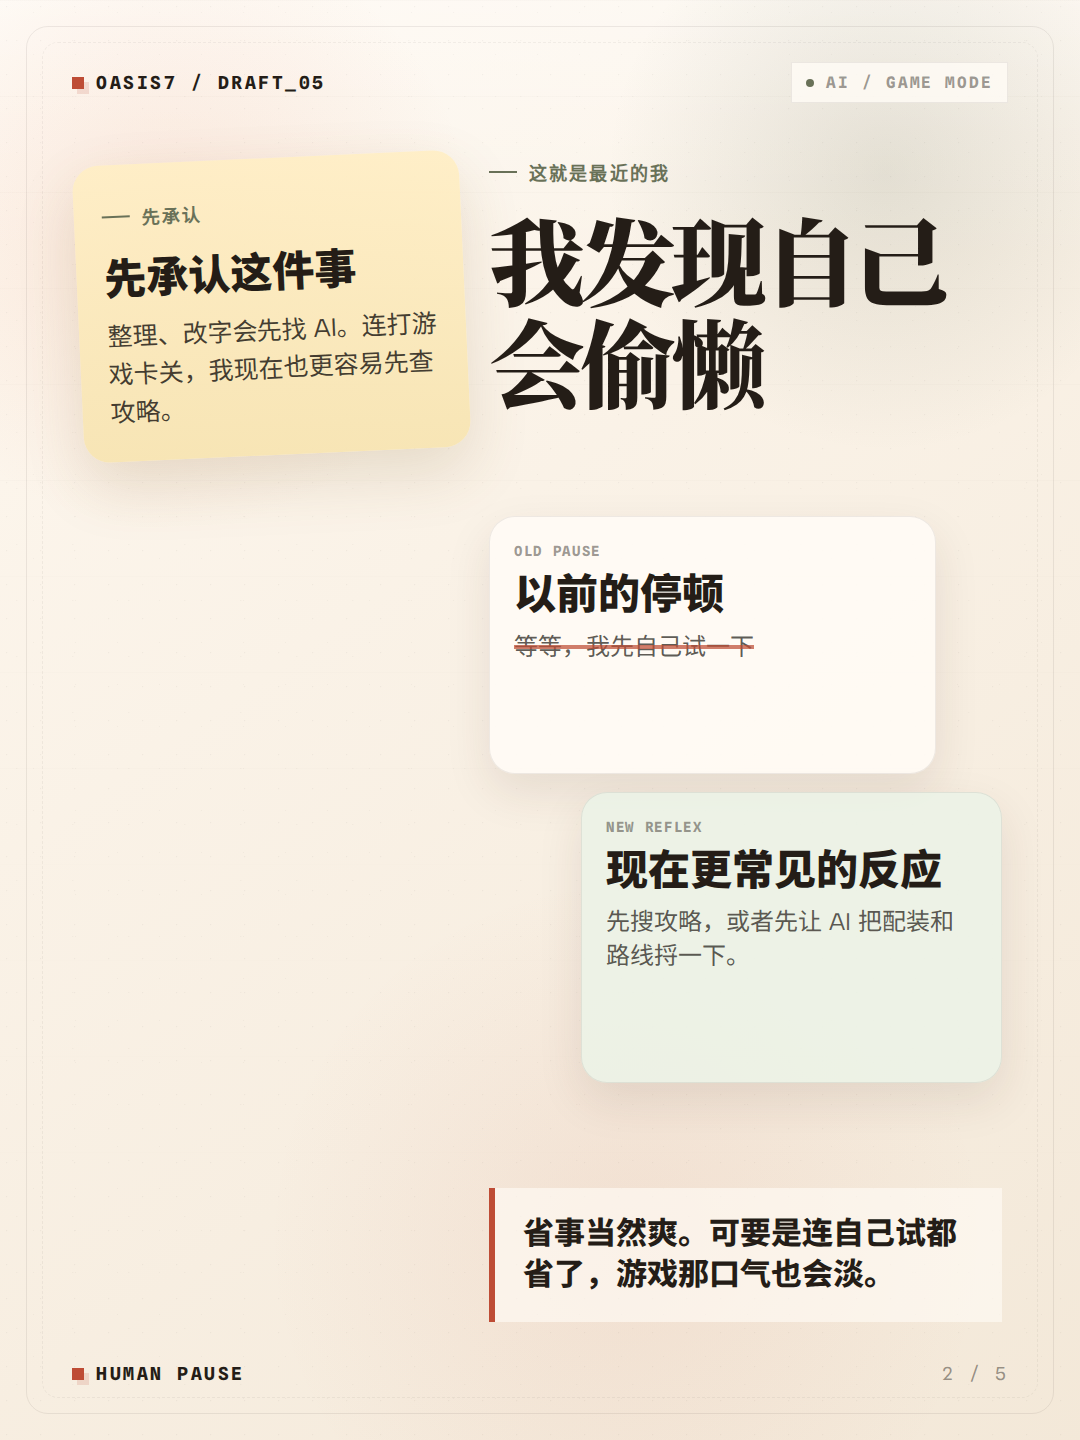
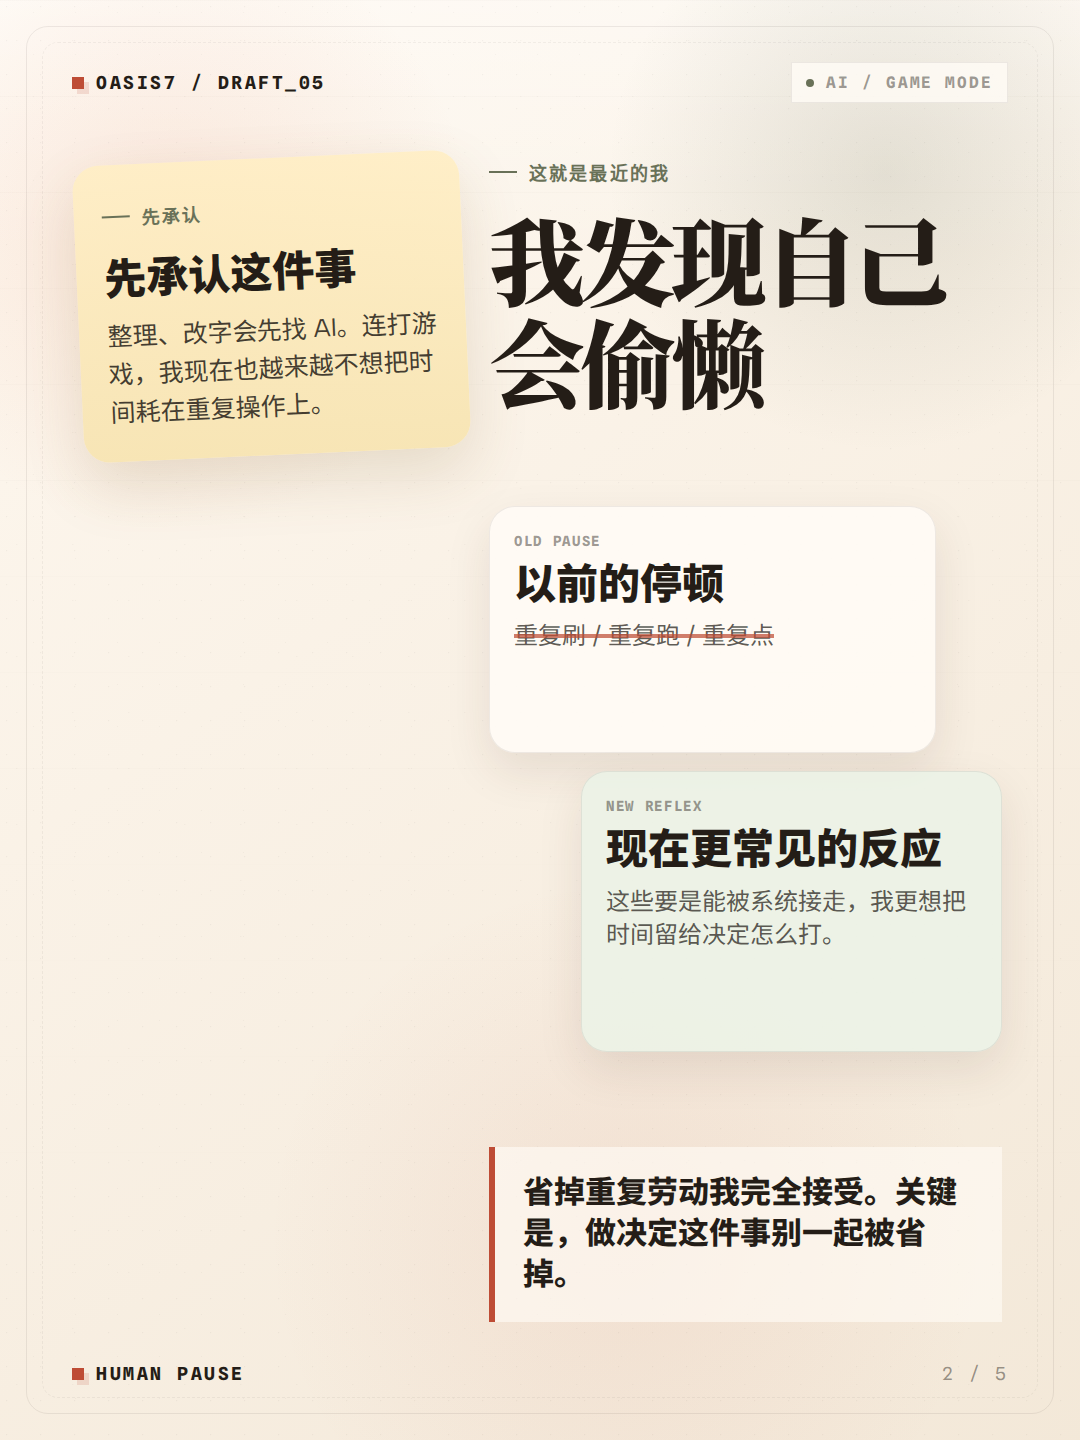
refine xiaohongshu fifth post decision framing

diff --git a/site/social/xiaohongshu-ai-laziness-game-mode.html b/site/social/xiaohongshu-ai-laziness-game-mode.html
@@ -625,6 +625,7 @@
 
       .ladder-main {
         display: grid;
+        align-content: start;
         gap: 18px;
       }
 
@@ -661,6 +662,7 @@
 
       .question-side {
         display: grid;
+        align-content: start;
         gap: 18px;
       }
 
@@ -784,23 +786,23 @@
         {
           kind: "cover",
           title: 'AI时代，<br />你变<span class="accent">"懒"</span>了么',
-          subtitle: "我这阵子有个变化挺明显。不只写东西卡住会先问 AI，打游戏卡关也开始想先看答案。",
+          subtitle: "我这阵子有个变化挺明显。不只写东西想省事，打游戏的时候我也越来越想把时间留给做决定。",
           noteTitle: "这事我自己也有",
-          noteBody: "以前会先乱试几把。现在有时候第一反应已经是：要不要先看一眼攻略？",
+          noteBody: "我想省掉的不是决策。是那些重复、机械、明知道还得做很多遍的事。",
           compareLeft: "以前卡关会先自己试一会儿",
-          compareRight: "现在更容易先查攻略 / 问 AI",
-          prompt: "如果攻略和答案越来越容易拿到手，游戏还该留什么给人？",
+          compareRight: "现在更想把时间留给做决定",
+          prompt: "如果重复劳动都能被省掉，游戏还该留什么给人？",
         },
         {
           kind: "chat",
           title: "我发现自己会偷懒",
           stickyTitle: "先承认这件事",
-          stickyBody: "整理、改字会先找 AI。连打游戏卡关，我现在也更容易先查攻略。",
+          stickyBody: "整理、改字会先找 AI。连打游戏，我现在也越来越不想把时间耗在重复操作上。",
           userTitle: "以前的停顿",
-          userBody: '<span class="strike">等等，我先自己试一下</span>',
+          userBody: '<span class="strike">重复刷 / 重复跑 / 重复点</span>',
           aiTitle: "现在更常见的反应",
-          aiBody: "先搜攻略，或者先让 AI 把配装和路线捋一下。",
-          tail: "省事当然爽。可要是连自己试都省了，游戏那口气也会淡。",
+          aiBody: "这些要是能被系统接走，我更想把时间留给决定怎么打。",
+          tail: "省掉重复劳动我完全接受。关键是，做决定这件事别一起被省掉。",
         },
         {
           kind: "allowed",
@@ -821,48 +823,48 @@
             },
           ],
           summary: "这些懒没问题",
-          summaryBody: "因为被省掉的主要还是体力活，不是那个“我自己来试”的劲。",
+          summaryBody: "因为被省掉的主要还是体力活，这样时间才留得下来给判断和取舍。",
           list: ["整理", "改字", "刷材料"],
         },
         {
           kind: "question",
-          title: "但如果连自己试都被省掉了",
-          body: "连“先自己试试”“先自己判断一下”这两步都被跳过去了，那游戏还剩什么是一定要你自己来的？",
+          title: "重复劳动可以少一点",
+          body: "如果系统能把刷、跑、点这些重复事接过去，那玩家最该保留下来的，是不是就该是决策？",
           ladder: [
             {
-              label: "先被接走的",
-              title: "动作",
-              body: "点一下、改一下、补一下，效率确实上来了。",
+              label: "可以被省掉的",
+              title: "重复劳动",
+              body: "刷、跑、点、做很多次一样的事，这些真的很耗时间。",
             },
             {
-              label: "我开始警惕的",
-              title: "自己试 + 自己判断",
-              body: "什么时候该停、怎么试、怎么选，这部分一丢，游戏就容易只剩答案。",
+              label: "最好留下来的",
+              title: "关键决策",
+              body: "先做什么、资源给谁、这步赌不赌，这些我还是想自己定。",
             },
           ],
           sideTitle: "我在意的是",
-          sideBody: "有些地方还是得留给玩家自己试、自己选、自己吃后果。不然太像照着答案抄。",
-          tokens: ["自己试", "自己判断", "自己吃后果"],
+          sideBody: "我想要的不是全自动通关。是少做重复事，把时间留给判断。",
+          tokens: ["先做什么", "资源给谁", "赌不赌"],
         },
         {
           kind: "closing",
-          title: "你最不想省掉的<br />到底是哪一步？",
-          body: "如果攻略、配装、答案都越来越容易拿到手，你最不想省掉哪一步？",
+          title: "如果游戏能替你省事<br />你最想自己留下什么决定？",
+          body: "如果重复劳动都能被接走，你最想自己保留哪一类决策？",
           options: [
             {
-              title: "自己试",
-              body: "先自己试、自己绕、自己踩坑，这口气不能一下全没了。",
+              title: "先做什么",
+              body: "第一步先投哪里、先做哪边，这个我想自己定。",
             },
             {
-              title: "自己判断",
-              body: "这会儿该怎么选，最好还是你自己定。",
+              title: "资源给谁",
+              body: "资源先砸哪、先保守还是先冒险，我来选。",
             },
             {
-              title: "自己吃后果",
-              body: "选错了也得自己吃到，这样才像自己打的。",
+              title: "赌不赌",
+              body: "这步要不要冒险、要不要梭进去，我想自己拍板。",
             },
           ],
-          footer: "我现在最舍不得省掉的，是后两步。你呢？",
+          footer: "我想省掉的是重复劳动，不是决策本身。你呢？",
         },
       ];
 
@@ -1032,9 +1034,13 @@
                     <p style="margin-top: 18px;">${slide.sideBody}</p>
                   </div>
                   <div class="token-cloud">
-                    <span class="token">自己试</span>
-                    <span class="token hot">自己判断</span>
-                    <span class="token soft">自己吃后果</span>
+                    ${slide.tokens
+                      .map(
+                        (token, tokenIndex) => `
+                    <span class="token${tokenIndex === 1 ? " hot" : tokenIndex === 2 ? " soft" : ""}">${token}</span>
+                  `,
+                      )
+                      .join("")}
                   </div>
                 </div>
               </div>

diff --git a/doc/readme/governance/readme-xiaohongshu-ai-laziness-game-mode-post-pack-2026-03-26.md b/doc/readme/governance/readme-xiaohongshu-ai-laziness-game-mode-post-pack-2026-03-26.md
@@ -11,11 +11,11 @@
 - Review Status: `ready_for_publish`
 
 ## 使用说明
-- 这是第五篇，主要回答“AI 时代，人会不会不只在工作里省事，连玩游戏也越来越想跳过判断和试错”。
+- 这是第五篇，主要回答“AI 时代，人会不会不只在工作里省事，连玩游戏也越来越想把重复劳动省掉，把时间留给做决策”。
 - 这篇的目标不是做泛 AI 焦虑帖，也不是做工具测评，而是借一个很多人都能代入的真实感受，把讨论引到：
   - 哪些“懒”其实没问题。
-  - 哪些“懒”会让人在游戏里越来越少自己试、自己想、自己承担。
-  - 如果越来越多动作都能被 AI 接手，游戏模式还应该把什么留给人。
+  - 游戏里哪些重复劳动本来就不该一直占人的时间。
+  - 如果越来越多动作都能被系统接手，玩家最该保留的到底是不是决策。
 - 语气仍然要像真人开发者在说自己的真实变化，不像趋势报告，也不像大道理输出。
 - 不要出现以下表述：
   - `AI 会让人彻底失去思考能力`
@@ -42,63 +42,59 @@ AI时代，你变"懒"了么
 我现在都会先想：
 要不要先看一眼攻略？
 
-以前卡关了，
-我会先自己乱试几把，
-死几次再说。
+但我后来发现，
+我想省掉的，
+好像也不只是工作里的重复活。
 
-现在有时候，
-第一反应已经变成：
-先搜一下攻略，
-或者先问一句 AI，
-先把配装、路线、答案看一眼。
+连打游戏也是。
+我越来越不想把时间
+耗在那些机械、重复、
+明知道还得再做很多遍的事情上。
 
-省事当然省事。
-
-而且有些省事我觉得没问题。
 整理资料、改字、刷材料，
 或者游戏里那些纯刷材料的劳动，
 本来就挺耗人。
 
-但我越来越在意的是，
-如果连
-“我先自己试试”
-这一下也没了，
-游戏会不会也少了点东西？
+所以对我来说，
+游戏变简单一点，
+其实没什么不好。
 
-因为被跳过去的，
-不只是几个动作。
-还有你自己摸出来的过程，
-自己判断的那一下，
-还有选错以后那点难受。
+重复的事少一点，
+也没什么不好。
+
+我更想把时间
+留给另一种东西：
+做决定。
+
+先做什么，
+往哪边走，
+资源投给谁，
+这一把到底要不要赌。
+
+这些我还是想自己来。
 
 所以我最近一直在想：
-如果 AI 让答案
-越来越容易拿到手，
+如果系统真的能把
+重复劳动接过去，
 那游戏还该留什么给人？
 
-是自己试。
-是自己判断。
-还是选完以后，
-得自己吃那个后果。
+我现在会更偏向：
+把重复劳动拿掉，
+把决策留下。
 
-我现在最舍不得的，
-其实是后两步。
-
-不然很多游戏最后
-真的会变成一条通关流程。
-那种“这是我自己打出来的”
-感觉，会淡很多。
+不然游戏只是忙。
+不是玩。
 
 你们会这样吗？
 用了 AI 之后，
-现在打游戏卡关，
-你会先查攻略，
-还是先自己试？
+你会更想把时间
+花在重复操作上，
+还是花在做决定上？
 ```
 
 ## 评论区引导
 ```text
-如果攻略、配装、答案都越来越容易拿到手，你最不想省掉哪一步：自己试、自己判断，还是自己吃后果？
+如果游戏能替你省掉很多重复劳动，你最想自己保留哪种决策？
 ```
 
 ## 卡片文案
@@ -115,8 +111,8 @@ AI时代，
 
 不只是在工作里
 
-以前卡关会先乱试
-现在更容易先查攻略
+连打游戏
+也越来越想省事
 ```
 
 ### 第 3 页 / 哪些懒没问题
@@ -128,44 +124,40 @@ AI时代，
 改字
 刷材料
 
-这些本来就挺耗人
+这些本来就挺耗时间
 ```
 
 ### 第 4 页 / 重点收回游戏模式
 ```text
-但如果连
+重复劳动
+可以少一点
 
-自己试和自己判断
-
-都被省掉了
-
-那游戏
-还剩什么是你的？
+但决策
+还是得是你的
 ```
 
 ### 第 5 页 / 收束页
 ```text
-你最不想省掉的
-是自己试
-自己判断
-还是自己吃后果？
+如果游戏能替你省事
+
+你最想自己留下哪种决策？
 ```
 
 ## 封面与视觉建议
 ### 封面短句
 ```text
-连打游戏都想先看答案了
+把时间留给决策
 ```
 
 ### 推荐视觉搭配
 - 采用 `暖纸面自述 + 聊天框停顿 + 单一问题钩子` 的方向。
 - 画面关系：
-  - 前两页更像开发者把“工作会先问 AI，连玩游戏也会先搜答案”这个变化摊开来讲。
-  - 第四页开始突然把话题从“我变懒了”拐到“那游戏还该把什么留给人”。
+  - 前两页更像开发者承认自己连打游戏都开始想省事。
+  - 第四页开始突然把话题从“省事”拐到“那到底什么该留给人做”。
 - 为什么这套更贴本帖：
   - 标题本身很像平台讨论帖，不需要再用复杂系统图去解释。
-  - 核心不是展示机制，而是把一个熟悉感受收口到游戏模式讨论。
-  - 用便签、提示框、对话停顿去表现“先自己想一下”被跳过，会比冷冰冰的系统图更贴这篇的人味。
+- 核心不是展示机制，而是把一个熟悉感受收口到游戏模式讨论。
+- 用便签、提示框、对话停顿去表现“重复劳动可以少，但决策不能一起没了”，会比冷冰冰的系统图更贴这篇的人味。
 
 ### 视觉方向
 - 不要做“AI 焦虑海报”，也不要堆机器人、芯片、脑回路之类老套意象。
@@ -202,10 +194,9 @@ AI时代，
 
 ## 发布备注
 - 这篇一定要先承认一点真实变化，不要上来就教育别人“人类不能偷懒”。
-- 重点不是批判懒，而是区分“哪些懒没问题，哪些懒会把判断感也带走”。
-- 最好明确提到“连玩游戏也会想先搜攻略 / 看最优解 / 让 AI 总结 build”，不然游戏这一层会显得太后置。
-- 如果还要继续人味化，优先保留“乱试几把”“先看答案”“太像抄作业”这种口语，不要再往“游戏模式”“玩家体验”这种抽象词退回去。
-- 如果还要继续平台化，优先保留“要不要先看一眼攻略”“现在打游戏卡关，你会先查攻略还是先自己试”这两句，它们最像真实讨论入口。
+- 重点不是批判懒，而是区分“哪些重复劳动可以省掉，哪些决策不能一起被省掉”。
+- 最好明确提到“游戏里那些重复、耗时、机械的事可以被省掉”，不然“只把决策留给玩家”这层意思会不够清楚。
+- 如果还要继续人味化，优先保留“把时间留给做决定”“不然游戏只是忙，不是玩”这种短句，不要再往大而抽象的设计词退回去。
 - 讨论必须往游戏模式收，不要停在泛工具效率和生产力焦虑。
 - 不要写成“我们的游戏已经给出了完整答案”，当前只能保持设计判断层表达。
 - 评论区优先接“最该留给人的是什么”这个问题，不要在评论区扩展成大而泛的 AI 伦理辩论。
@@ -214,5 +205,5 @@ AI时代，
 
 ## 后续衔接建议
 1. 如果评论区很多人在说“最该留给人的是判断”，下一篇可以拆“判断感在游戏里到底是什么”。
-2. 如果评论区很多人在说“摸索感才是游戏最后的堡垒”，下一篇可以拆“为什么我不想让游戏一上来就把答案给满”。
-3. 如果评论区很多人在讨论“承担后果”，下一篇可以拆“为什么我越来越在意游戏里的后果感”。
+2. 如果评论区很多人在说“重复劳动就该被省掉”，下一篇可以拆“我想让玩家自己做的，到底是哪类决策”。
+3. 如果评论区很多人在讨论“冒险要不要自己拍板”，下一篇可以拆“为什么游戏里有些风险选择最好还是留给玩家自己定”。

diff --git a/doc/devlog/2026-03-26.md b/doc/devlog/2026-03-26.md
@@ -434,3 +434,25 @@
   - `rg -n "AI时代，你变\"懒\"了么|要不要先看一眼攻略|先查攻略|自己试|自己判断|自己吃后果" doc/readme/governance/readme-xiaohongshu-ai-laziness-game-mode-post-pack-2026-03-26.md`
 - 遗留事项：
   - 这版已经比较接近可发版；如果还要继续压，优先只改第 4 页长副文，不要再动第 5 页问题句。
+
+## 16:34:30 CST / liveops_community
+- 完成内容：
+  - 按用户最后确认的主旨，把第五篇彻底收口到“省掉重复劳动，不省掉决策本身”，不再把“自己试 / 自己吃后果”放在主标题层表达。
+  - 同步修正 `site/social/xiaohongshu-ai-laziness-game-mode.html` 第 4 页 token 云的残留旧词，改成和正文一致的 `先做什么 / 资源给谁 / 赌不赌`，并把第 5 页第三个选项也改成明确决策项，避免图上继续出现旧视觉重复。
+  - 回写素材包发布备注与 `doc/readme/project.md` 验收关键词，准备按最终版重新导出第五篇 5 张 PNG。
+- 执行验证：
+  - `rg -n "AI时代，你变\"懒\"了么|重复劳动|做决定|先做什么|资源给谁|赌不赌" doc/readme/governance/readme-xiaohongshu-ai-laziness-game-mode-post-pack-2026-03-26.md site/social/xiaohongshu-ai-laziness-game-mode.html`
+- 遗留事项：
+  - 需要按这版最终文案重导第五篇 5 张图，并抽查第 4、5 页的手机可读性。
+
+## 16:41:06 CST / viewer_engineer
+- 完成内容：
+  - 按最终文案重新导出 `site/social/xiaohongshu-ai-laziness-game-mode-slide1.png` 到 `site/social/xiaohongshu-ai-laziness-game-mode-slide5.png`，保证 HTML、素材包和 PNG 成图完全一致。
+  - 顺手修正第 4 页布局的网格拉伸问题，把内容卡和 token 区都收回顶部，避免手机阅读时出现大块无意义空白。
+  - 抽查第 4、5 页成图，确认已经不再出现 `自己试 / 自己判断 / 自己吃后果 / 结果自己扛` 这组旧词，当前关键决策词统一为 `先做什么 / 资源给谁 / 赌不赌`。
+- 执行验证：
+  - `agent-browser open http://127.0.0.1:8765/site/social/xiaohongshu-ai-laziness-game-mode.html?slide=4`
+  - `agent-browser open http://127.0.0.1:8765/site/social/xiaohongshu-ai-laziness-game-mode.html?slide=5`
+  - `file site/social/xiaohongshu-ai-laziness-game-mode-slide{1,2,3,4,5}.png`
+- 遗留事项：
+  - 当前第五篇已到可发版；如果后续还要继续压，只建议再微调第 1 页副文，不建议再动第 4、5 页的主结构和问题句。

diff --git a/doc/readme/project.md b/doc/readme/project.md
@@ -356,7 +356,7 @@
     - `site/social/xiaohongshu-ai-laziness-game-mode-slide5.png`
     - `doc/devlog/2026-03-26.md`
   - 验收命令 (`test_tier_required`):
-    - `rg -n "AI时代，你变\"懒\"了么|要不要先看一眼攻略|先查攻略|自己试|自己判断|自己吃后果" doc/readme/governance/readme-xiaohongshu-ai-laziness-game-mode-post-pack-2026-03-26.md`
+    - `rg -n "AI时代，你变\"懒\"了么|重复劳动|做决定|先做什么|资源给谁|赌不赌" doc/readme/governance/readme-xiaohongshu-ai-laziness-game-mode-post-pack-2026-03-26.md site/social/xiaohongshu-ai-laziness-game-mode.html`
     - `./scripts/doc-governance-check.sh`
     - `git diff --check`
 
